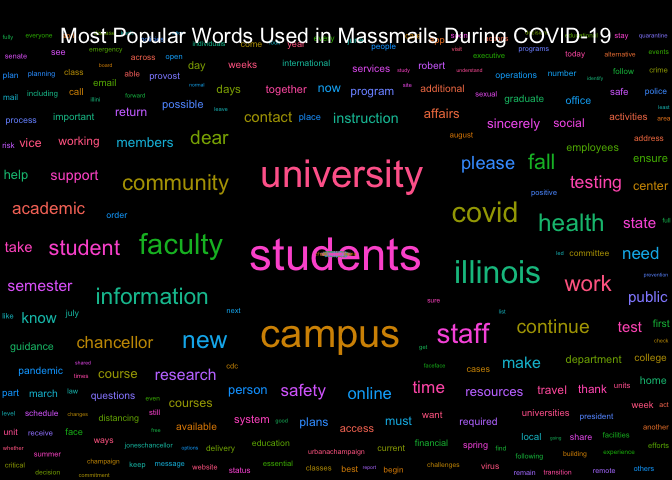
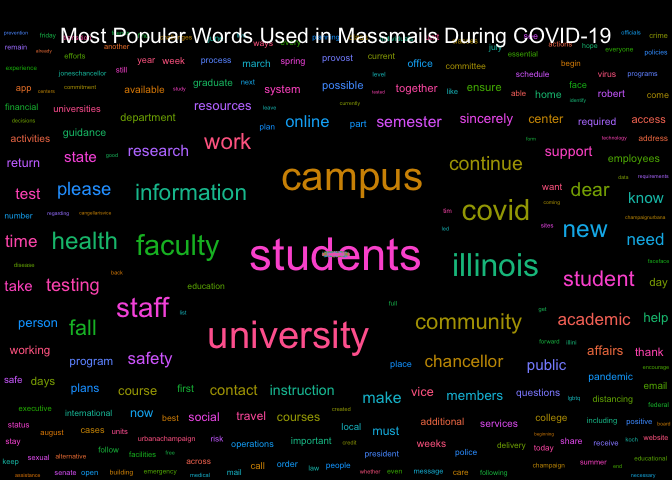
Re-build README.Rmd and Graphs

diff --git a/README.md b/README.md
@@ -17,7 +17,7 @@ The archive may be viewed here:
 
 <https://massmail.illinois.edu/massmailArchive>
 
-Data has **1193** observations and **7** variables:
+Data has **1196** observations and **7** variables:
 
   - `datetime`: Date and time when the email was sent in the form of
     `YYYY-MM-DD HMS` with either CDT or CST.
@@ -205,16 +205,16 @@ head(most_popular_words, 10) %>%
 
 | word        | freq |
 | :---------- | ---: |
-| students    |  565 |
-| university  |  487 |
-| campus      |  460 |
-| illinois    |  307 |
-| faculty     |  286 |
-| covid       |  251 |
+| students    |  573 |
+| university  |  491 |
+| campus      |  474 |
+| illinois    |  311 |
+| faculty     |  289 |
+| covid       |  262 |
+| community   |  238 |
 | information |  238 |
-| community   |  235 |
-| staff       |  224 |
-| health      |  211 |
+| staff       |  227 |
+| health      |  212 |
 
 #### Wordcloud
 
